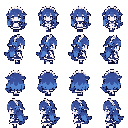
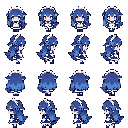
Use one shared palette so every sheet has the same skin tone
Each sheet used to pick its own 20 colours, and on some sheets the skin
merged with the white apron and headband, so faces came out pale white
or grey while the source art is the same warm tone everywhere.
art/make_palette.py builds a 23-colour palette from all source images,
adding the source skin colour explicitly (blush is folded into it, as it
only produced stray pink pixels at this size); pixelize.py --palette
maps every sheet to it, which also makes hair and outline colours match.

diff --git a/art/pixelize.py b/art/pixelize.py
@@ -23,6 +23,7 @@ ap.add_argument("--block", type=float, default=0)
 ap.add_argument("--cell", default="32x32")
 ap.add_argument("--colors", type=int, default=20)
 ap.add_argument("--preview", default="")
+ap.add_argument("--palette", default="", help="共用调色板（make_palette.py 生成）；不给就每张图自己挑颜色")
 ap.add_argument("--ref", default="", help="用第 r,c 格（从 0 数）的高度定比例：这一格缩成 --height 高")
 ap.add_argument("--strip-tool", action="store_true", help="抠掉灰色工具头、棕色手柄/鱼竿、灰蓝水壶（游戏会自己画工具）")
 ap.add_argument("--front", default="", help="正脸格子，取样时优先保证左右对称：'0' 是第 0 行整行，'1:3' 是第 1 行第 3 列，逗号分隔")
@@ -48,10 +49,18 @@ if args.strip_tool:
     can = (g - r >= 12) & (b - r >= 40) & (b - r <= 78) & (b - g >= 20) & (b - g <= 55) & (lum > 125) & (lum < 215)
     fg &= ~(grey | brown | can)
 
-_q = Image.fromarray(np.where(fg[..., None], im, 0).astype(np.uint8)).quantize(
-    colors=args.colors + 1, method=Image.Quantize.MEDIANCUT, dither=Image.Dither.NONE)
-qidx = np.array(_q)
-palette = np.array(_q.getpalette()[:3 * (args.colors + 1)]).reshape(-1, 3)
+if args.palette:
+    # 所有贴图共用一套颜色（make_palette.py 生成），肤色、发色、描边在每张图里都一样
+    palette = np.array(Image.open(args.palette).convert("RGB")).reshape(-1, 3).astype(int)
+    _pal_img = Image.new("P", (1, 1))
+    # 调色板要填满 256 色；空位用第一种颜色重复，免得像素被映射到不存在的"黑色"序号上
+    _pal_img.putpalette(palette.astype(np.uint8).flatten().tolist() + palette[0].tolist() * (256 - len(palette)))
+    qidx = np.array(Image.fromarray(im.astype(np.uint8)).quantize(palette=_pal_img, dither=Image.Dither.NONE))
+else:
+    _q = Image.fromarray(np.where(fg[..., None], im, 0).astype(np.uint8)).quantize(
+        colors=args.colors + 1, method=Image.Quantize.MEDIANCUT, dither=Image.Dither.NONE)
+    qidx = np.array(_q)
+    palette = np.array(_q.getpalette()[:3 * (args.colors + 1)]).reshape(-1, 3)
 DARK = palette.mean(1) < 60  # 描边、眼线、嘴这类深色
 SKIN = (palette[:, 0] >= 235) & (palette[:, 2] <= 245) & (palette[:, 0] - palette[:, 2] >= 10)
 

diff --git a/art/make_palette.py b/art/make_palette.py
@@ -1,0 +1,41 @@
+"""从所有原图里挑一套共用的调色板，让每张贴图的肤色、发色、描边颜色都一样。
+
+用法:
+  python make_palette.py 输出.png 原图1.png 原图2.png ... [--colors 22]
+
+每张图各自压缩颜色时，肤色常常和女仆装的白色合并（脸变白或变灰），而且每张图挑出来的颜色都不一样。
+这里先把所有原图的前景像素合在一起挑颜色（皮肤和腮红先拿出来），再单独加上原图的肤色，保证皮肤不会被并进白色。
+输出是一张 1 像素高的小图，每个像素是一种颜色，给 pixelize.py 的 --palette 用。
+"""
+import argparse
+import numpy as np
+from PIL import Image
+
+ap = argparse.ArgumentParser()
+ap.add_argument("out")
+ap.add_argument("sources", nargs="+")
+ap.add_argument("--colors", type=int, default=22, help="除肤色以外挑几种颜色")
+args = ap.parse_args()
+
+pixels, skin_main, skin_shade = [], [], []
+rng = np.random.default_rng(0)
+for path in args.sources:
+    a = np.array(Image.open(path).convert("RGB")).astype(int)
+    r, g, b = a[..., 0], a[..., 1], a[..., 2]
+    fg = ~(((np.minimum(r, b) - g) > 110) & (g < 120))
+    # 皮肤：很亮、偏暖；腮红/阴影：稍暗、更红
+    main = fg & (r >= 235) & (r - b >= 25) & (r - b <= 70) & (g >= 195) & (g <= 240)
+    shade = fg & (r >= 215) & (r - b >= 45) & (g >= 150) & (g < 205)
+    skin_main.append(a[main])
+    skin_shade.append(a[shade])
+    rest = a[fg & ~main & ~shade]
+    pixels.append(rest[rng.choice(len(rest), min(len(rest), 60000), replace=False)])
+
+sample = np.concatenate(pixels).astype(np.uint8)
+q = Image.fromarray(sample[None, :, :]).quantize(colors=args.colors, method=Image.Quantize.MEDIANCUT, dither=Image.Dither.NONE)
+base = np.array(q.getpalette()[:3 * args.colors]).reshape(-1, 3)
+# 只加一种肤色：腮红在 26 像素高的脸上只剩一两个像素，看着像斑点，不如直接并进肤色
+skin = np.median(np.concatenate(skin_main + skin_shade), axis=0)
+palette = np.vstack([base, np.round(skin)[None]]).astype(np.uint8)
+Image.fromarray(palette[None, :, :]).save(args.out)
+print("肤色:", palette[-1].tolist(), "共", len(palette), "色")

diff --git a/README.md b/README.md
@@ -63,16 +63,18 @@ A SMAPI mod that replaces the Stardew Valley farmer with a chibi whale-girl maid
 
 1. `art/prompts.md`：给图像模型的提示词（品红背景、固定网格、每次附上走路图当参考）。
 2. `art/source/`：模型生成的原图（1024×1536）。
-3. `art/pixelize.py`：把原图转成真正的低分辨率像素帧——抠品红背景、按块取主色、压缩调色板、脚底和头部对齐；`--strip-tool` 能尽量抠掉图里的工具（游戏会自己画），但效果不如直接让模型画空手姿势，`--ref r,c --height 26` 按某一格的站立高度统一大小；`--front` 标出正脸的格子，取样时会多试几种起点，挑左右眼最对称的（同一行共用一个起点，动画不抖），再把眼睛那几行镜像，保证两只眼一样大（中线选「现有两眼最对称」的那条，不改眼距）；本来就歪头的格子用 `--keep-eyes` 排除。`--eye-gap 4` 把正脸两只瞳孔内侧的间隙统一成 4 格（原图约 3.5 格，缩小时有的帧会被刘海挤近）。闭眼的帧眼线太细，用 `--dark-priority 0.25 --dark-cells …` 让脸上的深色细线优先保留。
+3. `art/make_palette.py`：从所有原图里挑一套共用的 23 色调色板（肤色单独加进去，免得和女仆装的白色合并），保证每张贴图的肤色、发色、描边颜色都一样。
+4. `art/pixelize.py`：把原图转成真正的低分辨率像素帧——抠品红背景、按块取主色、压缩调色板、脚底和头部对齐；`--strip-tool` 能尽量抠掉图里的工具（游戏会自己画），但效果不如直接让模型画空手姿势，`--ref r,c --height 26` 按某一格的站立高度统一大小；`--front` 标出正脸的格子，取样时会多试几种起点，挑左右眼最对称的（同一行共用一个起点，动画不抖），再把眼睛那几行镜像，保证两只眼一样大（中线选「现有两眼最对称」的那条，不改眼距）；本来就歪头的格子用 `--keep-eyes` 排除。`--eye-gap 4` 把正脸两只瞳孔内侧的间隙统一成 4 格（原图约 3.5 格，缩小时有的帧会被刘海挤近）。闭眼的帧眼线太细，用 `--dark-priority 0.25 --dark-cells …` 让脸上的深色细线优先保留。
 
 ```bash
-python art/pixelize.py art/source/1-full.png WhaleFarmer/assets/walk.png --cols 4 --rows 4 --block 10.33 --front 0 --eye-gap 4
-python art/pixelize.py art/source/4-tools.png WhaleFarmer/assets/tools.png --cols 4 --rows 3 --ref 0,3 --height 26 --cell 40x40 --front 0 --eye-gap 4
-python art/pixelize.py art/source/5-melee.png WhaleFarmer/assets/melee.png --cols 4 --rows 3 --ref 0,0 --height 26 --cell 40x40 --front 0 --eye-gap 4
-python art/pixelize.py art/source/6-crouch.png WhaleFarmer/assets/crouch.png --cols 4 --rows 3 --ref 0,2 --height 26 --cell 40x40 --front 0 --eye-gap 4
-python art/pixelize.py art/source/7-fishing.png WhaleFarmer/assets/fishing.png --cols 3 --rows 3 --ref 0,0 --height 26 --cell 40x40 --front 0 --eye-gap 4
-python art/pixelize.py art/source/8-eat.png WhaleFarmer/assets/eat.png --cols 6 --rows 1 --ref 0,1 --height 26 --cell 40x40 --front 0 --keep-eyes 0:4 --dark-priority 0.25 --dark-cells 0:2,0:5 --eye-gap 4
-python art/pixelize.py art/source/9-misc.png WhaleFarmer/assets/misc.png --cols 4 --rows 2 --ref 1,3 --height 26 --cell 40x40 --front 1,0:0 --eye-gap 4
+python art/make_palette.py art/palette.png art/source/1-full.png art/source/4-tools.png art/source/5-melee.png art/source/6-crouch.png art/source/7-fishing.png art/source/8-eat.png art/source/9-misc.png
+python art/pixelize.py art/source/1-full.png WhaleFarmer/assets/walk.png --cols 4 --rows 4 --block 10.33 --front 0 --eye-gap 4 --palette art/palette.png
+python art/pixelize.py art/source/4-tools.png WhaleFarmer/assets/tools.png --cols 4 --rows 3 --ref 0,3 --height 26 --cell 40x40 --front 0 --eye-gap 4 --palette art/palette.png
+python art/pixelize.py art/source/5-melee.png WhaleFarmer/assets/melee.png --cols 4 --rows 3 --ref 0,0 --height 26 --cell 40x40 --front 0 --eye-gap 4 --palette art/palette.png
+python art/pixelize.py art/source/6-crouch.png WhaleFarmer/assets/crouch.png --cols 4 --rows 3 --ref 0,2 --height 26 --cell 40x40 --front 0 --eye-gap 4 --palette art/palette.png
+python art/pixelize.py art/source/7-fishing.png WhaleFarmer/assets/fishing.png --cols 3 --rows 3 --ref 0,0 --height 26 --cell 40x40 --front 0 --eye-gap 4 --palette art/palette.png
+python art/pixelize.py art/source/8-eat.png WhaleFarmer/assets/eat.png --cols 6 --rows 1 --ref 0,1 --height 26 --cell 40x40 --front 0 --keep-eyes 0:4 --dark-priority 0.25 --dark-cells 0:2,0:5 --eye-gap 4 --palette art/palette.png
+python art/pixelize.py art/source/9-misc.png WhaleFarmer/assets/misc.png --cols 4 --rows 2 --ref 1,3 --height 26 --cell 40x40 --front 1,0:0 --eye-gap 4 --palette art/palette.png
 ```
 
 需要 Python 3、numpy、Pillow。
